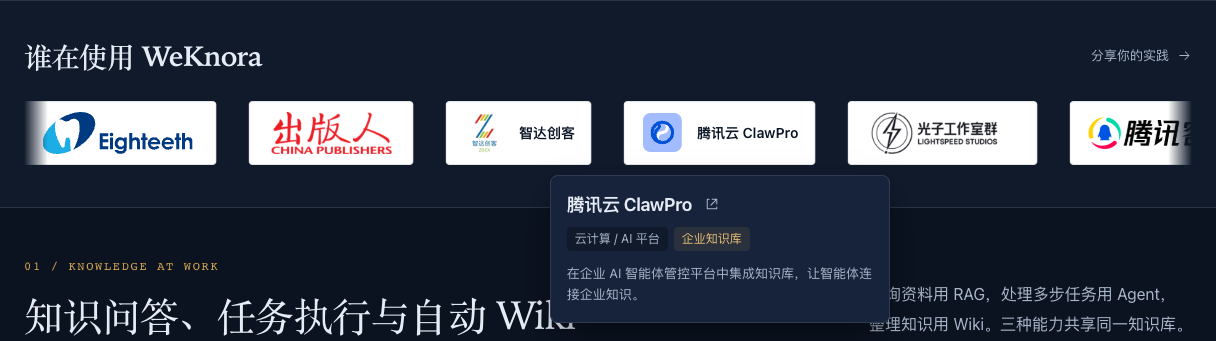
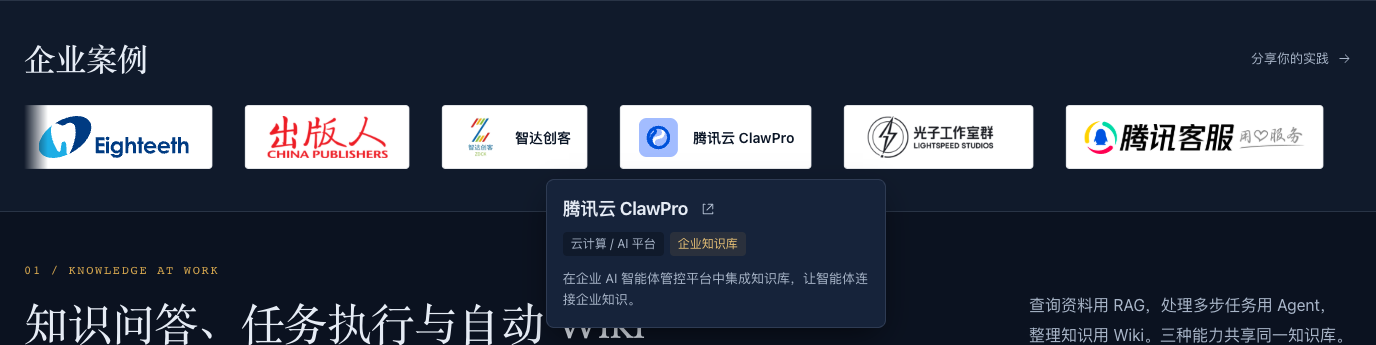
fix(website): label adopter showcase as enterprise cases

diff --git a/website-docs/homepage/app/adopter-showcase.tsx b/website-docs/homepage/app/adopter-showcase.tsx
@@ -38,7 +38,7 @@ export function AdopterShowcase() {
     onKeyDown={event => { if (event.key === "Escape") setActive(null); }}>
     <div ref={inner} className={`${s.shell} ${a.inner}`}>
       <div className={a.heading} onPointerEnter={event => { if (event.pointerType === "mouse") setActive(null); }}>
-        <h2 id="adopters-title">谁在使用 WeKnora</h2>
+        <h2 id="adopters-title">企业案例</h2>
         <a className={a.join} href={adopterIssue} target="_blank" rel="noreferrer">分享你的实践 <Icon name="arrow" /></a>
       </div>
       <div id="adopter-logos" className={a.viewport}>

diff --git a/website-docs/shared/header.ts b/website-docs/shared/header.ts
@@ -15,7 +15,7 @@ export type SiteNavItem = {
 export const siteNavigation: SiteNavItem[] = [
   { label: '产品能力', href: '/#capabilities', badge: '' },
   { label: 'v0.9.0', href: '/#release', badge: 'NEW' },
-  { label: '谁在使用', href: '/#adopters', badge: '' },
+  { label: '企业案例', href: '/#adopters', badge: '' },
   { label: '生态集成', href: '/#ecosystem', badge: '' },
   { label: '企业部署', href: '/#enterprise', badge: '' },
   { label: '文档', href: '/docs/', badge: '' },
